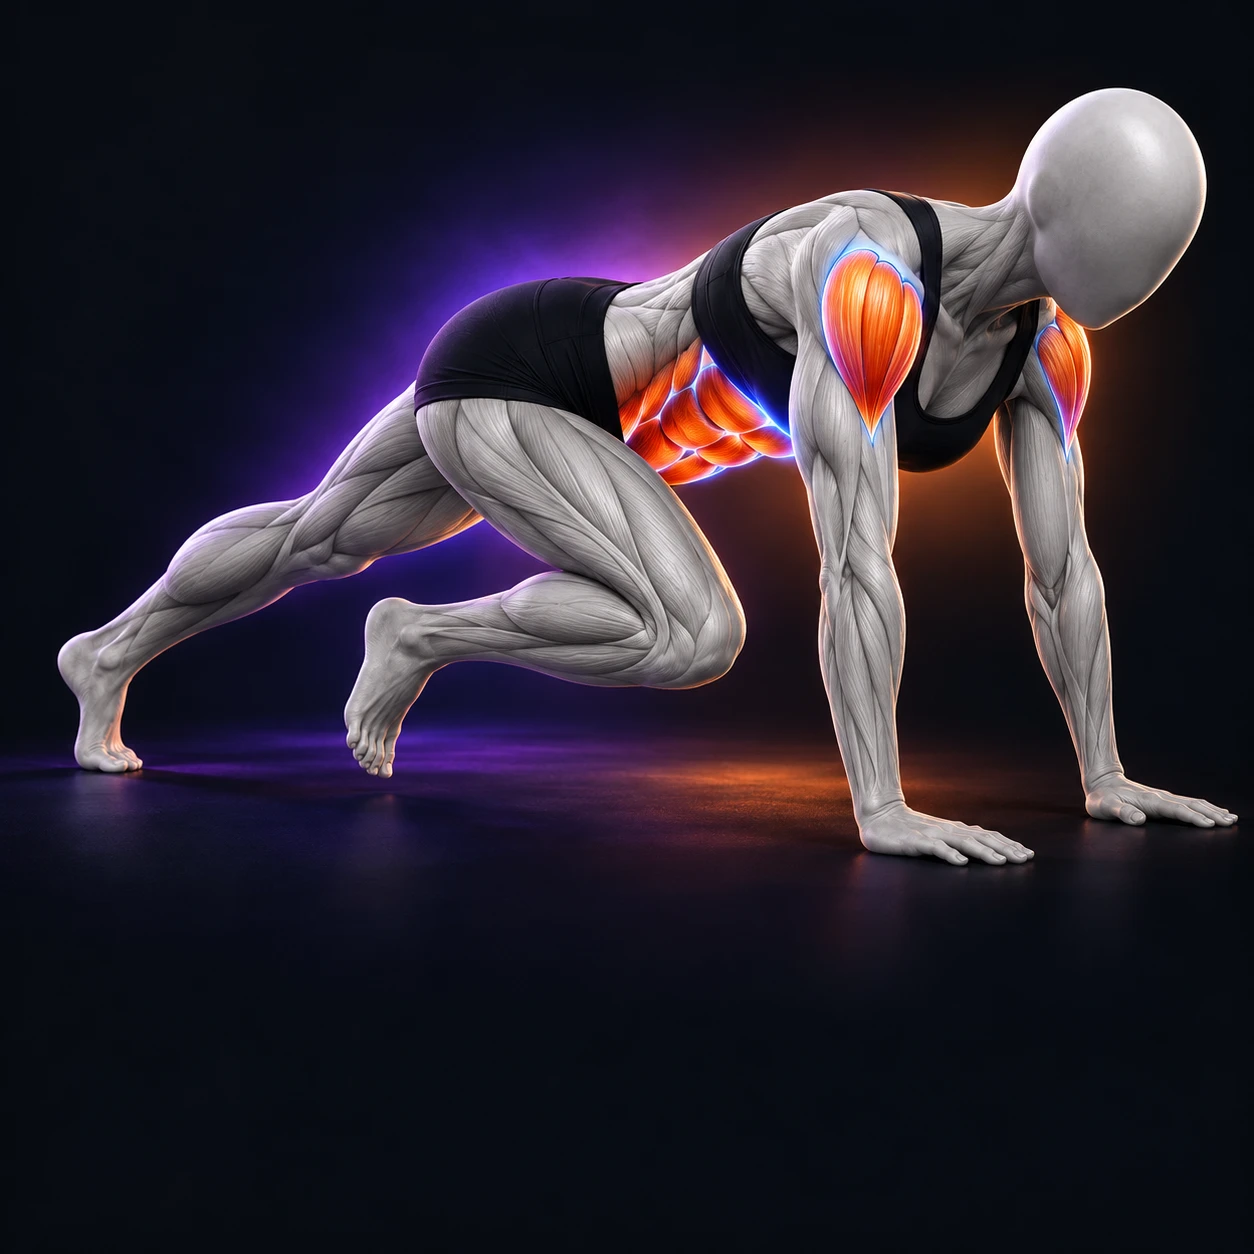
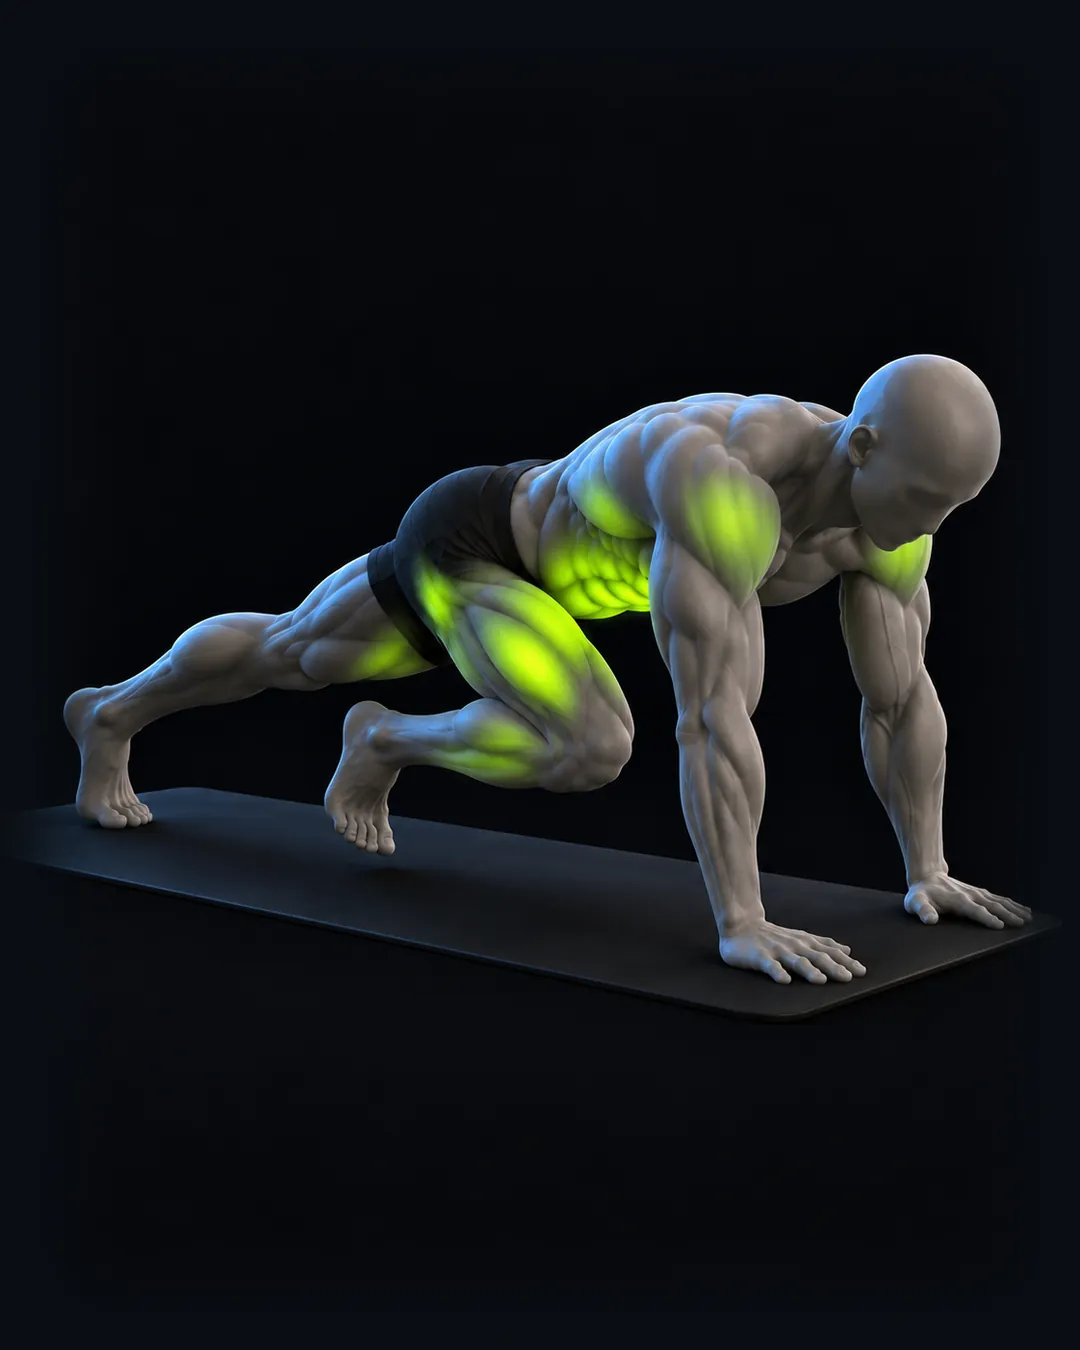
Estilo nuevo: escaladores, rueda abdominal y cruce de poleas de arriba hacia abajo
- Pasos y error común para estos 3 y para la plancha lateral, cuya imagen
  queda pendiente (la generada tenía la cadera caída).
- Guía: 24 ejercicios listos, 1 por rehacer.

Claude-Session: https://claude.ai/code/session_01LxDcWEqJvHuS5S3y2B3UNH

diff --git a/js/38-entreno.js b/js/38-entreno.js
@@ -28,6 +28,10 @@ const EJ_PASOS = {
   'pullover-en-polea-alta':{e:'Polea alta con barra recta',p:['De frente a la polea, flexiona un poco la cadera y toma la barra con los brazos casi rectos.','Lleva la barra en arco hasta los muslos sin doblar los codos.','Regresa lento hasta sentir el estiramiento del dorsal.'],x:'Doblar los codos: se convierte en un jalón de tríceps.'},
   'curl-alterno-con-mancuernas':{e:'Mancuernas',p:['De pie con una mancuerna en cada mano y los codos pegados al cuerpo.','Sube una mancuerna girando la palma hacia arriba, sin mover el codo.','Baja lento y repite con el otro brazo.'],x:'Balancear el torso para subir el peso.'},
   'plancha-frontal':{e:'Tapete (peso corporal)',p:['Apoya los antebrazos con los codos debajo de los hombros.','Estira las piernas y forma una línea recta de la cabeza a los talones.','Aprieta abdomen y glúteos y sostén sin dejar caer la cadera.'],x:'Dejar caer la cadera o subirla demasiado.'},
+  'escaladores':{e:'Tapete (peso corporal)',p:['Ponte en plancha alta con las manos debajo de los hombros.','Lleva una rodilla hacia el pecho y regrésala mientras llevas la otra.','Alterna rápido sin subir ni bajar la cadera.'],x:'Levantar la cadera o apoyar el peso en los pies.'},
+  'rueda-abdominal':{e:'Rueda abdominal y tapete',p:['De rodillas sobre el tapete, toma la rueda con las dos manos debajo de los hombros.','Rueda hacia adelante con el abdomen firme hasta donde puedas sin arquear la espalda.','Regresa jalando con el abdomen, no con la cadera.'],x:'Dejar caer la cadera y arquear la espalda baja.'},
+  'plancha-lateral':{e:'Tapete (peso corporal)',p:['Recuéstate de lado con el codo debajo del hombro y los pies uno sobre otro.','Sube la cadera hasta formar una línea recta de la cabeza a los pies.','Sostén con el abdomen firme sin dejar caer la cadera.'],x:'Dejar caer la cadera hacia el piso.'},
+  'cruce-de-poleas-de-arriba-hacia-abajo':{e:'Poleas / cables (estación de cruce)',p:['Coloca las poleas arriba y da un paso al frente con el torso un poco inclinado.','Con los codos un poco flexionados, baja las manos en arco hasta juntarlas frente a la cadera.','Regresa lento hasta sentir el estiramiento del pecho.'],x:'Doblar y estirar los codos: se vuelve un press.'},
   'prensa-de-piernas':{e:'Máquina de prensa inclinada',p:['Espalda y cadera pegadas al respaldo.','Pies al ancho de cadera, a media plataforma.','Baja hasta 90° y empuja sin bloquear las rodillas.'],x:'Despegar la cadera del asiento al bajar.'},
   'sentadilla-bulgara':{e:'Banca y mancuernas',p:['Apoya el empeine del pie de atrás en la banca.','Baja recto hasta que la rodilla de atrás casi toque el piso.','Sube empujando con el pie de adelante.'],x:'Dar un paso muy corto: la rodilla se adelanta de más.'},
   'curl-femoral-acostado':{e:'Máquina de curl femoral',p:['Acuéstate con el rodillo justo arriba del talón.','Lleva los talones hacia el glúteo.','Baja lento sin soltar la tensión.'],x:'Levantar la cadera del banco.'},

diff --git a/docs/IMAGENES-EJERCICIOS.md b/docs/IMAGENES-EJERCICIOS.md
@@ -115,8 +115,8 @@ Hay **226 ejercicios** en el catálogo:
 
 | Estado | Ejercicios | Qué significa |
 |---|---|---|
-| **Listo** | 21 | En el estilo nuevo: sentadilla goblet (imagen y video) y 20 ejercicios con imagen. |
-| **Rehacer** | 4 | Tienen imagen, pero en el estilo anterior. |
+| **Listo** | 24 | En el estilo nuevo: sentadilla goblet (imagen y video) y 23 ejercicios con imagen. |
+| **Rehacer** | 1 | Tienen imagen, pero en el estilo anterior. |
 | **Falta** | 201 | No tienen imagen. |
 
 Sugerencia de orden: primero los **Rehacer**, que ya aparecen en los planes, y luego los ejercicios compuestos de cada zona.
@@ -257,7 +257,7 @@ Sugerencia de orden: primero los **Rehacer**, que ya aparecen en los planes, y l
 | Plancha lateral | `plancha-lateral` | Oblicuos | Rehacer (estilo anterior) |
 | Dead bug | `dead-bug` | Core profundo | Falta |
 | Bird-dog | `bird-dog` | Core · Erectores | Falta |
-| Rueda abdominal | `rueda-abdominal` | Core anterior | Rehacer (estilo anterior) |
+| Rueda abdominal | `rueda-abdominal` | Core anterior | **Listo** (imagen) |
 | Sentadilla con salto | `sentadilla-con-salto` | Cuádriceps · Glúteo | Falta |
 | Aguante de zancada (split squat isométrico) | `aguante-de-zancada-split-squat-isometrico` | Cuádriceps · Glúteo | Falta |
 | Puente de glúteo isométrico | `puente-de-gluteo-isometrico` | Glúteo | Falta |
@@ -277,7 +277,7 @@ Sugerencia de orden: primero los **Rehacer**, que ya aparecen en los planes, y l
 | Plancha con toque de hombro | `plancha-con-toque-de-hombro` | Core · Hombro | Falta |
 | Crunch abdominal | `crunch-abdominal` | Recto abdominal | Falta |
 | Elevación de rodillas en banco | `elevacion-de-rodillas-en-banco` | Abdomen bajo | Falta |
-| Escaladores | `escaladores` | Core · Hombro | Rehacer (estilo anterior) |
+| Escaladores | `escaladores` | Core · Hombro | **Listo** (imagen) |
 | Crunch bicicleta | `crunch-bicicleta` | Oblicuos · Abdomen | Falta |
 | Tijeras (flutter kicks) | `tijeras-flutter-kicks` | Abdomen bajo | Falta |
 | Salto de cuerda | `salto-de-cuerda` | Sistema cardiovascular | Falta |
@@ -305,7 +305,7 @@ Sugerencia de orden: primero los **Rehacer**, que ya aparecen en los planes, y l
 | Patada de glúteo en polea | `patada-de-gluteo-en-polea` | Glúteo mayor | Falta |
 | Cruce de poleas | `cruce-de-poleas` | Pecho (porción media) | **Listo** (imagen) |
 | Cruce de poleas de abajo hacia arriba | `cruce-de-poleas-de-abajo-hacia-arriba` | Pecho superior | Falta |
-| Cruce de poleas de arriba hacia abajo | `cruce-de-poleas-de-arriba-hacia-abajo` | Pecho inferior | Rehacer (estilo anterior) |
+| Cruce de poleas de arriba hacia abajo | `cruce-de-poleas-de-arriba-hacia-abajo` | Pecho inferior | **Listo** (imagen) |
 | Jalón al pecho | `jalon-al-pecho` | Dorsal ancho | **Listo** (imagen) |
 | Jalón unilateral en polea | `jalon-unilateral-en-polea` | Dorsal ancho | Falta |
 | Pullover en polea alta | `pullover-en-polea-alta` | Dorsal ancho | **Listo** (imagen) |
